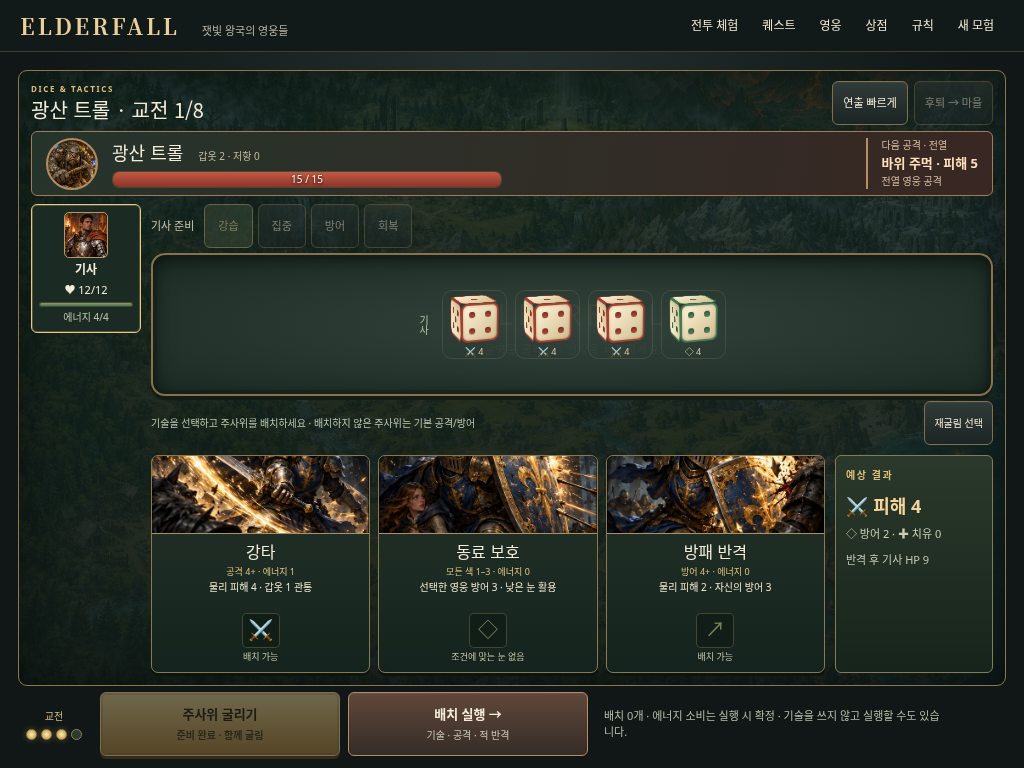
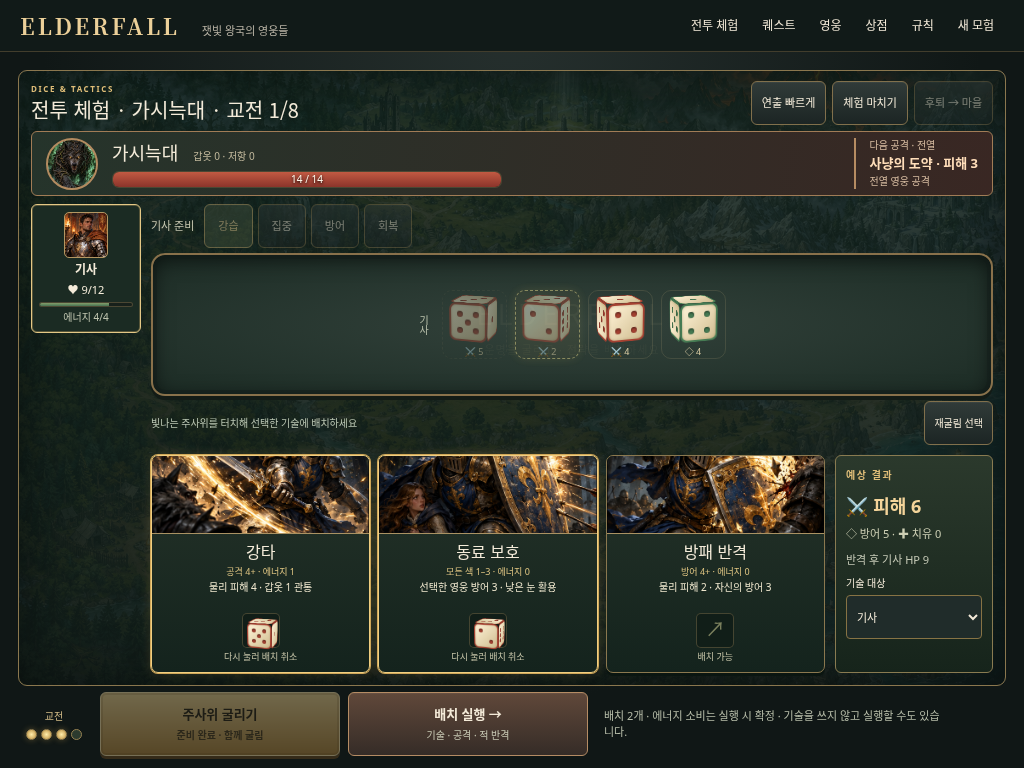
Record v0.7 deployment verification and playable screen captures

diff --git a/scripts/verify_public.py b/scripts/verify_public.py
@@ -1,0 +1,52 @@
+import hashlib,mimetypes,time,urllib.request,urllib.error
+from pathlib import Path
+from urllib.parse import urlparse,unquote
+from playwright.sync_api import sync_playwright
+ROOT=Path(__file__).resolve().parents[1]
+BASE='https://ureka01-creator.github.io/mmorpgboard/'
+FILES=['index.html','styles.css','game-engine.js','app.js','assets/world-map.png','assets/realm-map.png','assets/cards.png','assets/gear.png','assets/heroes.png','assets/enemies.png']
+verified={}
+for name in FILES:
+ url=BASE+('' if name=='index.html' else name)+'?release=0.7'
+ for attempt in range(4):
+  try:
+   with urllib.request.urlopen(url,timeout=30) as response:body=response.read()
+   break
+  except urllib.error.HTTPError as error:
+   if error.code not in (502,503,504) or attempt==3:raise
+   time.sleep(3)
+ assert hashlib.sha256(body).digest()==hashlib.sha256((ROOT/name).read_bytes()).digest(),f'Deployed bytes differ: {name}'
+ verified[name]=body
+ print('PASS deployed SHA256',name,flush=True)
+# Python HTTPS uses system trust. Browser tests use these exact TLS-verified deployed bytes;
+# the cloud browser's independent CA store cannot trust its network proxy certificate.
+with sync_playwright() as pw:
+ browser=pw.chromium.launch(executable_path='/usr/bin/chromium',args=['--no-sandbox'])
+ page=browser.new_page(viewport={'width':1024,'height':768},has_touch=True,is_mobile=True)
+ errors=[];page.on('pageerror',lambda error:errors.append(str(error)))
+ def route(req):
+  path=unquote(urlparse(req.request.url).path).removeprefix('/mmorpgboard/');name=path or 'index.html'
+  if name in verified:req.fulfill(status=200,content_type=mimetypes.guess_type(name)[0] or 'application/octet-stream',body=verified[name])
+  else:req.fulfill(status=404,body='')
+ page.route('https://ureka01-creator.github.io/**',route)
+ page.goto(BASE+'?release=0.7',wait_until='networkidle')
+ assert page.locator('meta[name="application-version"]').get_attribute('content')=='0.7'
+ page.click('#demo');page.click('#roll');page.wait_for_function('!busy')
+ assert page.evaluate('state.battle.dice.map(d=>d.value).join()')=='5,2,4,4'
+ page.click('[data-skill="strike"]');page.click('[data-die="0"]');page.click('[data-skill="protect"]');page.click('[data-die="1"]')
+ assert page.evaluate('state.battle.assignments.length')==2
+ predicted=page.evaluate('E.tacticalPreview(state).after[0]')
+ page.click('#resolve');page.wait_for_function('!busy')
+ assert page.evaluate('E.hero(state).hp')==predicted
+ assert page.evaluate('state.battle.round')==2
+ assert page.evaluate('localStorage.getItem(SAVE)') is None
+ page.click('#demo-exit');page.click('#start')
+ assert page.locator('#world-scene').is_visible()
+ assert page.locator('.region-node').count()==16
+ page.evaluate('E.hero(state).quests[0].ready=true;')
+ page.click('header [data-sheet="quests"]');page.click('[data-claim="herbs"]');page.click('[data-reward="1"]');page.click('#loot-confirm')
+ assert page.evaluate('E.hero(state).bag.includes(1)&&E.hero(state).xp===2')
+ assert not errors,errors
+ page.screenshot(path='/tmp/elderfall-v07-public.png')
+ browser.close()
+print('PASS public release 0.7: deployment bytes, rehearsal allocation/execution, campaign and reward',flush=True)

diff --git a/docs/redesign-verification.md b/docs/redesign-verification.md
@@ -38,3 +38,9 @@
 ## 화면 자료
 
 [승인된 예시 시안](screenshots/approved-concept.png) · [탐험 구현](screenshots/exploration-v07.png) · [전투 구현](screenshots/combat-v07.png) · [보상 구현](screenshots/rewards-v07.png)
+
+## 공개 배포 확인
+
+GitHub Pages 실행 `37885807727`이 성공했다. 배포 커밋은 `bd1e0fb4b335d969223610a6d7242b069dddf3af`이다. `scripts/verify_public.py`로 공개 HTTPS 파일 10개의 SHA256이 검증한 로컬 파일과 일치함을 확인했다. 그 배포 파일로 전투 체험의 배치·실행·예상 체력, 실제 캠페인 시작과 보상 선택도 확인했다.
+
+클라우드 Chromium의 프록시 인증서 신뢰 저장소 제약으로, Python의 시스템 인증서 검증을 통과한 공개 파일을 Chromium에 그대로 제공해 검사했다. TLS 검증을 끄지 않았다. 실제 iPad Safari의 직접 접속 검사는 여전히 별도다.
